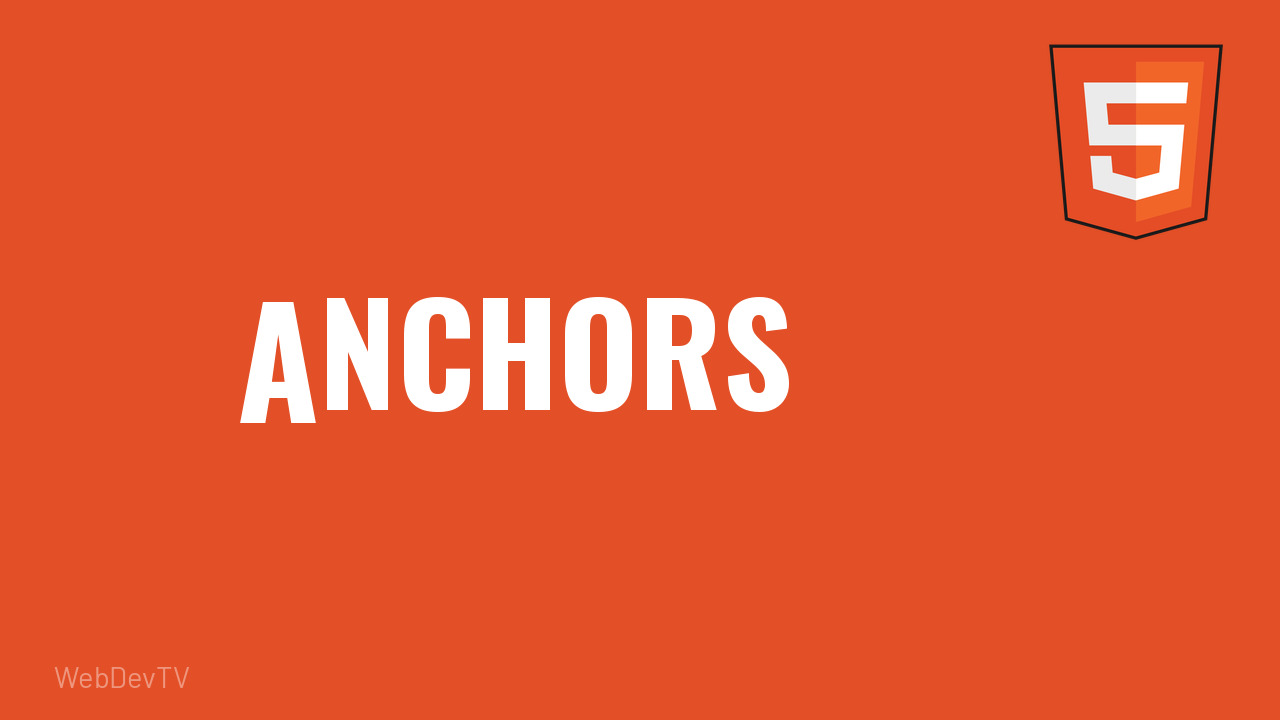
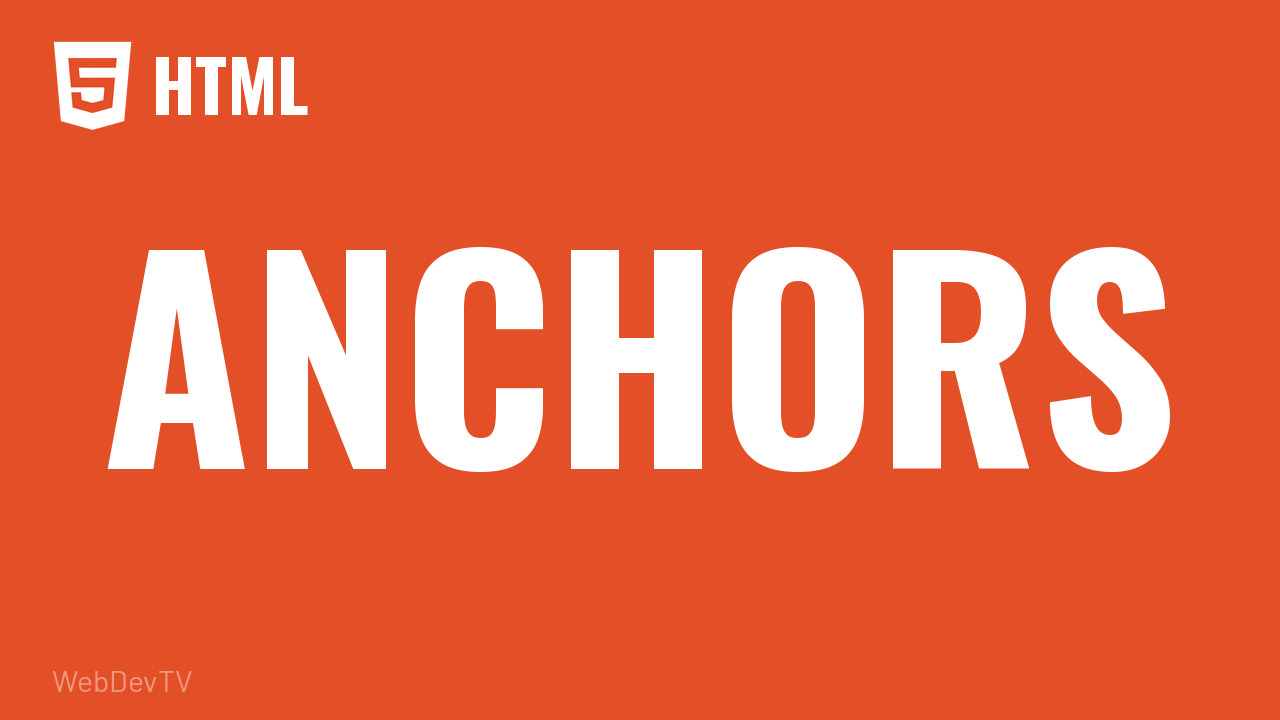
Switch HTML §1.3 posters to the G2 thumbnail layout.
White HTML5 mark and HTML wordmark sit together at the top left. The topic is a centered Oswald title, and the other clips still use YouTube hqdefault.

diff --git a/lib/videos/thumbs.ts b/lib/videos/thumbs.ts
@@ -1,6 +1,7 @@
 /**
- * Branded posters for the HTML §1.3 pilot.
- * Yolanda's 1280×720 samples: solid #E34F26, white Oswald-style title, HTML5 shield.
+ * Branded posters for the HTML §1.3 pilot (G2).
+ * Solid #E34F26, white HTML5 mark and “HTML” together at the top left,
+ * centered Oswald Bold topic, WebDevTV at the bottom left.
  * Every other clip keeps `youtubeThumbUrl` (`img.youtube.com/.../hqdefault.jpg`).
  * Keys are book TOC ids from `lecture-clips.json`, not YouTube ids — several
  * sections share one recording, and each card still needs its own title.
